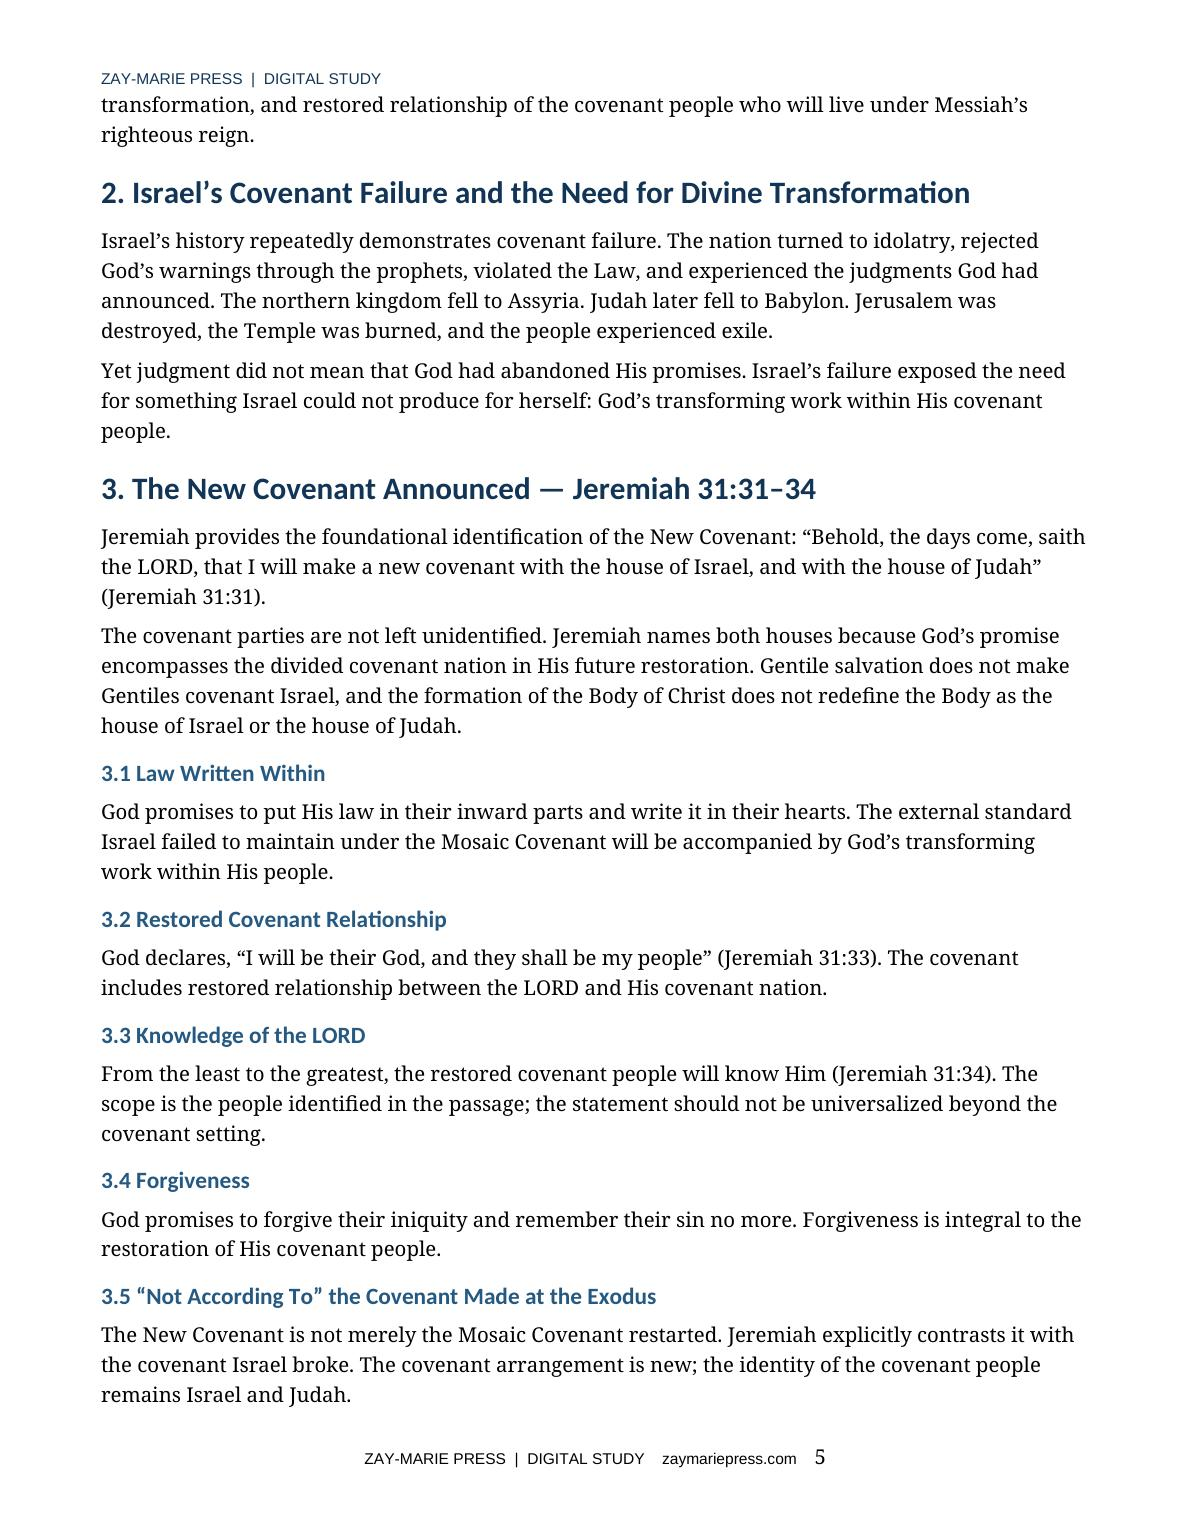
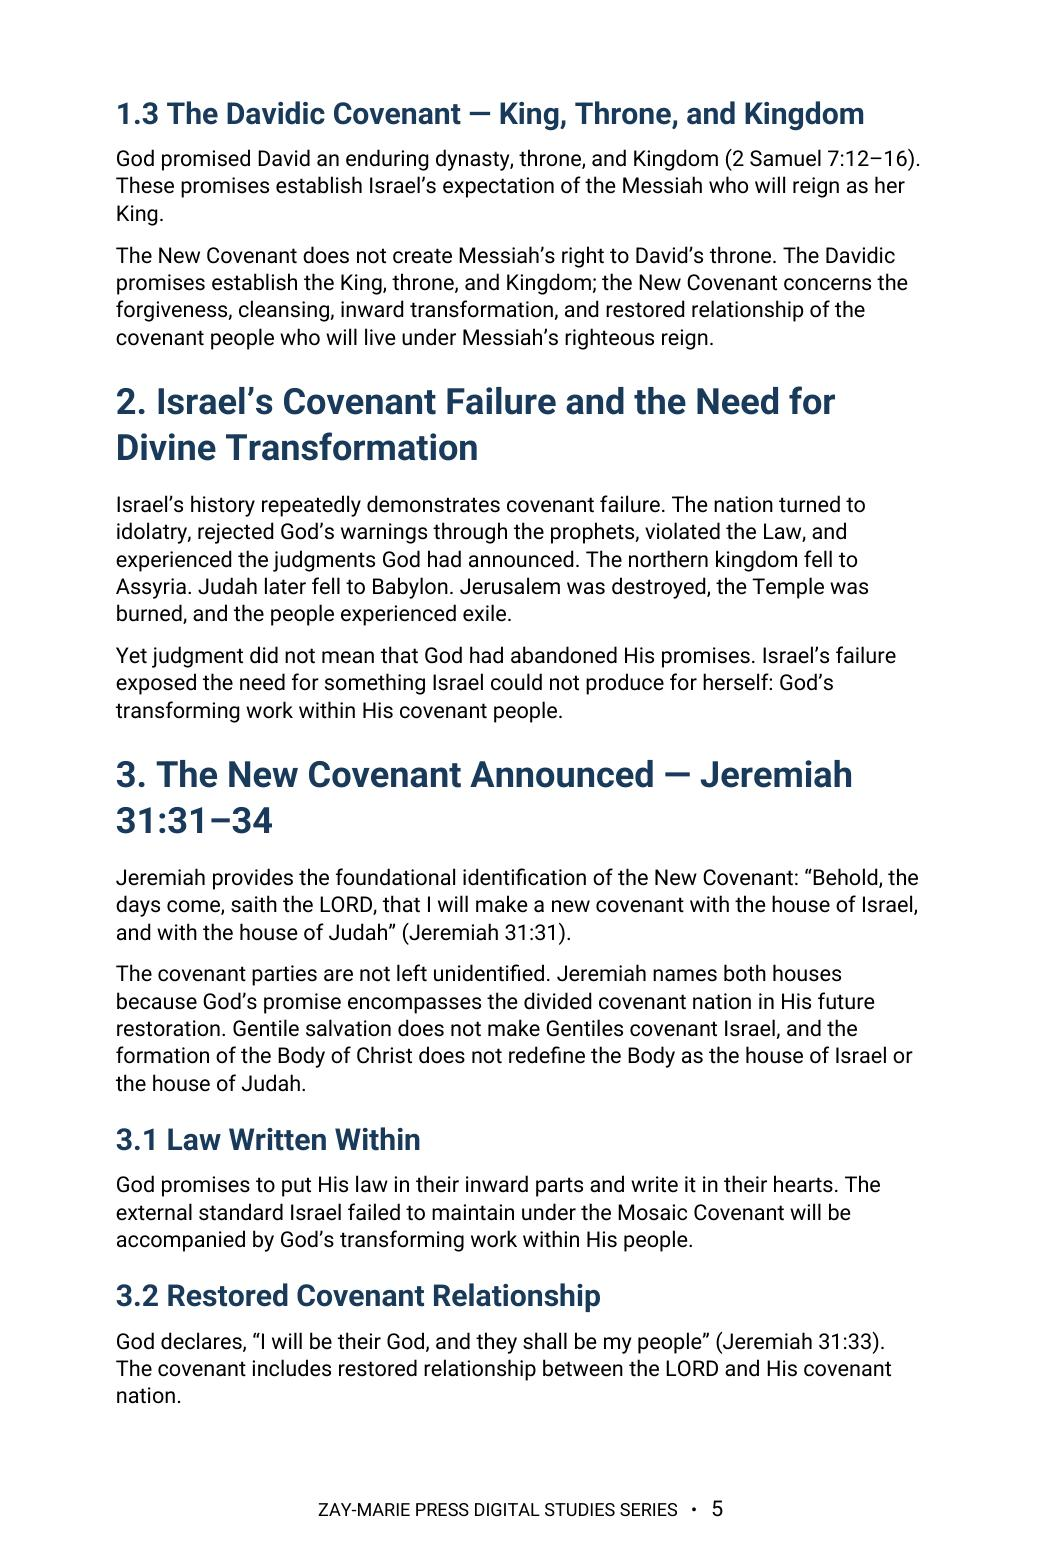
Study 12: rebuild from PDF to Master Standard v1.30; Section 9.1 wording per 2 Cor 3:6 ruling; 14 pages; preview strip re-cut; tracker v1.35
Claude-Session: https://claude.ai/code/session_01TLNFW47XCW6YAMUxScR3v4

Changed region(s): [[0.0922, 0.0312, 0.9222, 0.9351], [0.3074, 0.9351, 0.6763, 0.9662]]

diff --git a/study-12-the-new-covenant.html b/study-12-the-new-covenant.html
@@ -14,7 +14,7 @@
 <section class="detail-section soft"><div class="wrap"><div class="eyebrow">WHAT YOU’LL STUDY</div><h2>Read the Covenant in Its Prophetic Setting</h2><div class="study-points"><div class="study-point"><h3>The Covenant Story Before Jeremiah</h3><p>Set the New Covenant alongside the Abrahamic, Mosaic, and Davidic covenants without collapsing their functions.</p></div><div class="study-point"><h3>Israel’s Covenant Failure</h3><p>See why Israel’s history exposes the need for God’s transforming work within His covenant people.</p></div><div class="study-point"><h3>The Promise of Jeremiah 31</h3><p>Identify Israel and Judah as the named parties and follow the covenant’s promised provisions.</p></div><div class="study-point"><h3>Ezekiel’s Restoration Vision</h3><p>Examine cleansing, a new heart, the Spirit within, regathering, and restoration to the land.</p></div><div class="study-point"><h3>Christ’s Finished Work</h3><p>Understand the covenant’s redemptive basis without changing its covenant recipients.</p></div><div class="study-point"><h3>Israel’s Future Covenant Fulfillment</h3><p>Read Romans 11 and the Acts Overlap while preserving Israel’s future restoration and the Body’s distinct Mystery blessings.</p></div></div></div></section>
 <section class="detail-section cream"><div class="wrap"><div class="eyebrow">KEY SCRIPTURES</div><h2>Examine the Passages for Yourself</h2><div class="scripture-grid"><div class="scripture-card"><h3>Genesis 12:1–3; 17:7–8</h3><p>Establishes the national, land, and blessing promises that precede the New Covenant.</p></div><div class="scripture-card"><h3>Exodus 19–24</h3><p>Defines the Mosaic Covenant Israel broke.</p></div><div class="scripture-card"><h3>2 Samuel 7:12–16</h3><p>Connects David’s promised throne and Kingdom to Israel’s future hope.</p></div><div class="scripture-card"><h3>Jeremiah 31:31–34</h3><p>Names Israel and Judah as the New Covenant parties and declares its provisions.</p></div><div class="scripture-card"><h3>Ezekiel 36:22–28</h3><p>Promises cleansing, a new heart, the Spirit within, regathering, and restoration.</p></div><div class="scripture-card"><h3>Luke 22:20</h3><p>Relates Christ’s blood to the covenant’s redemptive basis.</p></div><div class="scripture-card"><h3>Romans 11:25–29</h3><p>Affirms Israel’s future deliverance and the certainty of God’s calling.</p></div><div class="scripture-card"><h3>Acts 28:25–28</h3><p>Marks the suspension of Israel’s Prophecy Program while Mystery continues.</p></div></div></div></section>
 <section class="detail-section"><div class="wrap"><div class="eyebrow">FROM THE STUDY</div><h2>The Covenant Arrangement Is New; Its People Are Not</h2><div class="excerpt"><blockquote>“Christ’s finished work provides the New Covenant’s redemptive basis. It does not change the covenant parties named by Jeremiah.”</blockquote><p>Receiving blessing through Christ does not automatically make a person or company a party to Israel’s covenant. The covenant belongs to Israel’s Prophecy Program; the Body’s blessings belong to the Mystery revealed through Paul.</p></div></div></section>
-<section class="detail-section soft"><div class="wrap"><div class="eyebrow">A LOOK INSIDE</div><h2>Preview the Study Before You Purchase</h2><p class="preview-instruction">Click any page to enlarge it for reading.</p><div class="preview-grid"><div class="preview-card"><a class="preview-image-link" data-preview-lightbox href="assets/study-12-page-2.jpg"><img src="assets/study-12-page-2.jpg" alt="Study 12 interior preview — page 2, what you will learn"/></a><div class="page-no">Page 2</div><h3>What You Will Learn</h3><p>See the study’s controls for reading the New Covenant in its prophetic setting.</p></div><div class="preview-card"><a class="preview-image-link" data-preview-lightbox href="assets/study-12-page-5.jpg"><img src="assets/study-12-page-5.jpg" alt="Study 12 interior preview — page 5, Jeremiah 31"/></a><div class="page-no">Page 5</div><h3>The New Covenant Announced</h3><p>Read Jeremiah 31’s named covenant parties, provisions, and controlling distinctions.</p></div><div class="preview-card"><a class="preview-image-link" data-preview-lightbox href="assets/study-12-page-8.jpg"><img src="assets/study-12-page-8.jpg" alt="Study 12 interior preview — page 8, Romans 11 and Acts Overlap"/></a><div class="page-no">Page 8</div><h3>Romans 11 and the Acts Overlap</h3><p>Follow Israel’s future covenant deliverance while preserving the distinct programs.</p></div><div class="preview-card"><a class="preview-image-link" data-preview-lightbox href="assets/study-12-page-11.jpg"><img src="assets/study-12-page-11.jpg" alt="Study 12 interior preview — page 11, key distinctions and Scripture-tracing exercise"/></a><div class="page-no">Page 11</div><h3>Key Distinctions and Scripture Tracing</h3><p>Test the study’s covenant controls directly from the passages.</p></div></div></div></section>
+<section class="detail-section soft"><div class="wrap"><div class="eyebrow">A LOOK INSIDE</div><h2>Preview the Study Before You Purchase</h2><p class="preview-instruction">Click any page to enlarge it for reading.</p><div class="preview-grid"><div class="preview-card"><a class="preview-image-link" data-preview-lightbox href="assets/study-12-page-2.jpg"><img src="assets/study-12-page-2.jpg" alt="Study 12 interior preview — page 2, table of contents"/></a><div class="page-no">Page 2</div><h3>Table of Contents</h3><p>See the full structure of the study, from the introduction through the final synthesis.</p></div><div class="preview-card"><a class="preview-image-link" data-preview-lightbox href="assets/study-12-page-3.jpg"><img src="assets/study-12-page-3.jpg" alt="Study 12 interior preview — page 3, what you will learn"/></a><div class="page-no">Page 3</div><h3>What You Will Learn</h3><p>See the study’s goals and the questions it will teach you to answer.</p></div><div class="preview-card"><a class="preview-image-link" data-preview-lightbox href="assets/study-12-page-5.jpg"><img src="assets/study-12-page-5.jpg" alt="Study 12 interior preview — page 5, the Davidic covenant, Israel’s covenant failure, and Jeremiah 31"/></a><div class="page-no">Page 5</div><h3>Israel’s Covenant History and Jeremiah 31</h3><p>Follow the covenant story from David’s throne through Israel’s failure to the opening of Jeremiah 31.</p></div></div></div></section>
 <section class="detail-section"><div class="wrap"><div class="eyebrow">WHAT’S INCLUDED</div><h2>A Focused Study Built for<br/>Understanding and Teaching</h2><div class="includes-grid"><div class="include-item"><h3>13-Page In-Depth Biblical Study</h3><p>A focused, Scripture-based examination of the New Covenant’s parties, promises, and future fulfillment.</p></div><div class="include-item"><h3>Ten Core Teaching Sections</h3><p>Move from covenant history through Jeremiah, Ezekiel, Christ’s work, Romans 11, and the Acts Overlap.</p></div><div class="include-item"><h3>Covenant-History Foundation</h3><p>Distinguish the Abrahamic, Mosaic, Davidic, and New Covenants by their revealed functions.</p></div><div class="include-item"><h3>Jeremiah 31 and Ezekiel 36 Study</h3><p>Read the New Covenant’s named parties and restoration provisions in their prophetic setting.</p></div><div class="include-item"><h3>Romans 11 and Acts Overlap Analysis</h3><p>Preserve Israel’s future covenant fulfillment while distinguishing national hardening from program suspension.</p></div><div class="include-item"><h3>Review and Discussion Questions</h3><p>Test the controlling distinctions concerning covenant parties, redemptive basis, and Kingdom inheritance.</p></div><div class="include-item"><h3>Teaching Outline</h3><p>A ready framework for explaining the covenant without transferring Israel’s promises to the Body.</p></div><div class="include-item"><h3>Guided Study and Final Synthesis</h3><p>Trace the passages directly and build the argument from Scripture with precision.</p></div></div></div></section>
 <section class="detail-section cream"><div class="wrap"><div class="final-buy"><div><div class="eyebrow">STUDY 12 · DIGITAL STUDY</div><h2>The New Covenant</h2><p>13-page digital PDF · For personal use</p></div><div class="final-offer"><div class="detail-price">$5.99</div><span class="detail-button pending" aria-disabled="true">Get the Study</span></div></div><a class="back-link" href="digital-studies.html">← Back to All Digital Studies</a></div></section><section class="study-method-course-bridge"><div class="wrap"><div class="study-method-course-panel"><div><div class="eyebrow">BUILD THE INTERPRETIVE METHOD</div><h2>Want More Than a Focused Study?</h2><p>Digital Studies examine particular biblical subjects and difficult passages. The 40-lesson Biblical Hermeneutics course teaches a complete, repeatable method for establishing meaning in context, determining proper assignment, and making responsible application.</p></div><a class="btn btn-primary" href="biblical-hermeneutics-course.html">BIBLICAL HERMENEUTICS COURSE</a></div></div></section></main>
 <div class="preview-lightbox" id="preview-lightbox" role="dialog" aria-modal="true" aria-label="Enlarged study page preview"><button class="preview-lightbox-close" type="button" aria-label="Close enlarged preview">×</button><img src="" alt=""/><div class="preview-lightbox-hint">Scroll to read the full page · Press Esc or click outside the page to close</div></div>

diff --git a/site.js b/site.js
@@ -62,7 +62,7 @@ const resourceModal=document.querySelector('#resource-modal'), resourceModalTitl
 if(resourceModal&&resourceModalTriggers.length){const closeResourceModal=()=>{resourceModal.hidden=true;document.body.classList.remove('resource-modal-open');lastResourceTrigger?.focus();};resourceModalTriggers.forEach(trigger=>trigger.addEventListener('click',()=>{lastResourceTrigger=trigger;if(resourceModalTitle)resourceModalTitle.textContent=trigger.dataset.title||'Resource';if(resourceModalDescription)resourceModalDescription.textContent=trigger.dataset.description||'';if(resourceModalLink){resourceModalLink.href=trigger.dataset.href||'#';resourceModalLink.textContent=trigger.dataset.linkText||'OPEN RESOURCE';}resourceModal.hidden=false;document.body.classList.add('resource-modal-open');resourceModalClose?.focus();}));resourceModalClose?.addEventListener('click',closeResourceModal);resourceModal.addEventListener('click',e=>{if(e.target===resourceModal)closeResourceModal();});document.addEventListener('keydown',e=>{if(e.key==='Escape'&&!resourceModal.hidden)closeResourceModal();});}
 
 /* Display the verified final-PDF page count at the primary purchase decision point. */
-const digitalStudyPageCounts={1:14,2:14,3:18,4:18,5:16,6:16,7:16,8:16,9:16,10:23,11:15,12:13,13:15,14:13,15:13,16:14,17:14,18:13,19:13,20:13,21:14,22:15,23:15,24:13,25:13,26:17,27:15,28:14,29:13,30:17,31:17,32:14,33:15,34:16,35:15,36:15,37:15,38:16,39:16,40:15,41:15,42:15,43:17,44:15,45:15,46:15,47:16,48:15,49:14,50:14,51:15,52:15,53:15,54:15,55:16,56:16,61:16,62:16,63:16,64:16,65:16,66:16,67:16,68:16,69:16,70:16,71:16};
+const digitalStudyPageCounts={1:14,2:14,3:18,4:18,5:16,6:16,7:16,8:16,9:16,10:23,11:15,12:14,13:15,14:13,15:13,16:14,17:14,18:13,19:13,20:13,21:14,22:15,23:15,24:13,25:13,26:17,27:15,28:14,29:13,30:17,31:17,32:14,33:15,34:16,35:15,36:15,37:15,38:16,39:16,40:15,41:15,42:15,43:17,44:15,45:15,46:15,47:16,48:15,49:14,50:14,51:15,52:15,53:15,54:15,55:16,56:16,61:16,62:16,63:16,64:16,65:16,66:16,67:16,68:16,69:16,70:16,71:16};
 const digitalStudyMatch=window.location.pathname.match(/\/study-(\d+)-/i);
 const digitalStudyFormat=document.querySelector('.detail-hero .detail-format');
 if(digitalStudyMatch&&digitalStudyFormat){const studyNumber=Number(digitalStudyMatch[1]),pageCount=digitalStudyPageCounts[studyNumber];if(pageCount)digitalStudyFormat.textContent=`Digital PDF · ${pageCount} Pages`;}

diff --git a/controlling-documents/Digital_Studies_PAM_Audit_v1.35.md b/controlling-documents/Digital_Studies_PAM_Audit_v1.35.md
@@ -61,7 +61,7 @@ Priority list (publisher's list):
 |---|---|---|---|
 | 9 The Remnant | Clear | Remnant = Israel only; Romans 11:5; Romans 11:25 ruling | Consistent: preservation without identity transfer. |
 | 11 The Beginning of the Body of Christ | Clear | Acts 1–8 Kingdom; Acts 2 not the Body; Acts 9–28 Overlap | Pentecost kept in Joel 2 setting. |
-| 12 The New Covenant | Clear | New covenant parties Israel and Judah; Luke 22:20; Section 4 on 2 Cor 3:6 | Body benefits from Christ's work without being the covenant party. |
+| 12 The New Covenant | Fixed (publisher approved) | New covenant parties Israel and Judah; Luke 22:20; Section 4 on 2 Cor 3:6 | Body benefits from Christ's work without being the covenant party. |
 | 13 The Olive Tree and the Body of Christ | Clear | Romans 11:25 ruling; Remnant | Romans 11 placed inside the Overlap. |
 | 14 Acts 9 and the Beginning of Mystery | Clear | Acts 1–8; Acts 9–28; Acts 10–11 ruling; Acts 15 ruling | Acts 10–12 presented as Peter's continuing ministry. PDF: confirm Acts 10–11 stays a Prophecy Program event. |
 | 18 Peter and Paul: Distinct Apostolic Commissions | Clear | Acts 9–28 Overlap; Acts 15; Galatians 2:7 | |
@@ -261,3 +261,4 @@ Study 15 PDF not yet supplied. Typography: none of Studies 2, 3, 6, 8 is in EB G
 - v1.32 (2026-09-30): Study 8 (The Day of Christ) read in full against the PAM and Framework: clear (Judgment Seat applied to the Body; Day of Christ in the Mystery Program and Day of the Lord in Prophecy; 2 Thess 2:2 translation question left open; 1 Cor 15:51 treated as a Mystery; Col 1:27 not tied to John 14). Approved by the publisher ("i approve") and pushed: Roboto rebuild to Master Standard v1.28/v1.29/v1.30, 16 pages (cover plus 15 interior; was 15), five boxed callouts (Study Goal, Interpretive Control in the Introduction, Judgment Seat Control, Interpretive Control on the two Days, Final Control; the others became body paragraphs with a bold run-in lead), TOC first at body spacing, Heading 1 at 12 pt, review questions 1-20, copyright in the end imprint. Defects fixed in the rebuild: the source TOC had no page numbers (all 26 entries now have dot leaders and numbers taken from the PDF; the builder now adds them automatically) and ended with a production placeholder line (removed). Publisher directives applied from Study 8 forward (not retrofitted to Studies 1-7 and 9): the interior footer reads "ZAY-MARIE PRESS DIGITAL STUDIES SERIES" plus the page number, per Master Standard section 11, and the interior header text is removed (no running header). Margins 0.83 in because the source's 0.35 in margins gave 15 pages at 0.67 in and the Standard requires 15 interior pages. Website: preview strip reduced from four cards to three (Page 2 Table of Contents, Page 3 What You Will Learn, Page 5 Completion and Sincerity; images at 1041 x 1565); old page 8, 11 and 13 images removed; page count 15 to 16 in site.js, the What's Included card and the hero line. Checked locally at 1280, 390, 360 and 320 px; not checked live (Cloudflare Access sign-in). The publisher swaps the purchasable PDF himself. Next file needed: Study 11 DOCX.
 - v1.33 (2026-09-30): Study 11 (The Beginning of the Body of Christ) read in full against the PAM and Framework from the publisher's PDF (v12, 13 pages; he had no DOCX): clear (Pentecost kept in Israel's Prophecy Program, consistent with the Framework's "Acts 2 is not the beginning of the Body"; Acts 9-28 overlap and the Acts 28 suspension; no use of Acts 10-11 or Acts 15 beyond the rulings; the study itself states that Acts 9 never contains the sentence "the Body began here"). Approved by the publisher ("i approve") and pushed. Because no DOCX existed, an editable DOCX was reconstructed from the PDF text (structure inferred from font size and position; a word-by-word comparison of the new PDF against the source PDF found no wording changes apart from the moved table of contents, a period after four run-in labels, and the imprint) and then built to Master Standard v1.28/v1.29/v1.30: 15 pages (cover plus 14 interior; was 13), the publisher accepted 14 interior pages for this study, standard 0.67 in margins, Roboto only, five boxed callouts (Study Goal, Interpretive Control, Acts 9 Control, Acts Overlap Control, Final Control; Doctrinal Principle, Pentecost Control, Audience Control and Revelation Control became body paragraphs with a bold run-in lead), TOC first at body spacing with page numbers, Heading 1 at 12 pt, footer "ZAY-MARIE PRESS DIGITAL STUDIES SERIES" plus page number, no header text, review questions 1-12, standard end imprint (the source's own personal-use license wording was dropped at the publisher's OK). The study had no Study Outline; one was drafted from the Teaching Outline as process-only wording (section 17) and approved by the publisher (six bullets under the Study Goal; not a TOC entry). Builder changes: imprint is now appended after a closing callout table, not before it; sgen tolerates a missing Study Outline. Website: preview strip kept at three cards but re-cut (Page 2 Table of Contents, Page 3 What You Will Learn with the outline, Page 4 The Question Beneath the Question; the old third card's page opens with a conclusion heading); old page 5 image removed; page count 13 to 15 in site.js, the What's Included card and the hero line. Checked locally at 1280, 390, 360 and 320 px; not checked live (Cloudflare Access sign-in). The publisher swaps the purchasable PDF himself. Next file needed: Study 12.
 - v1.34 (2026-09-30): Study 10 (Daniel's Seventieth Week) read in full against the PAM and Framework from the publisher's DOCX (v17): clear (seventy weeks kept with Israel and Jerusalem; Acts 1–8 Prophecy, Acts 9 Mystery begins, Acts 9–28 overlap, Acts 28 suspension not cancellation; no Matt 24/Luke 17 rapture claims; Rom 11:25 only in a reading list). Rebuilt in Roboto to Master Standard v1.30 (12/8 headings, Study 8+ footer, no header): five boxed callouts (Study Goal, Audience Control, Chronology Control, Overlap Control, Final Truth; Redemption Control became a run-in paragraph), Study Outline drafted from the Teaching Outline, Investigation 6 heading supplied, duplicate Final Synthesis merged into one heading, broken source paragraphs rejoined, misplaced Scripture-Tracing paragraph moved, Roman-numeral Teaching Outline turned to bullets. Length: the study is about 8,000 words; condensing to 17 pages would have cut important content, so the publisher accepted 23 pages as an exception to §9 (cover plus 22 interior). Only restated material was removed (Judgment Is Not Redemption, Suffering Does Not Redeem Israel, Israel's Future Rests Upon God, Two Destinies Remain Distinct, four Conclusion subsections, the Conclusion recap bullets and closing paragraphs). Website: preview strip re-cut to TOC (p2), What You Will Learn (p3), Section 1 (p4); old extra preview images removed; page count stays 23. Approved by the publisher ("i approve") and pushed.
+- v1.35 (2026-09-30): Study 12 (The New Covenant) read in full against the PAM and Framework from the publisher's PDF (v21, 13 pages; no DOCX): clear except one framing point. Section 9.1 spoke of Paul's "ministry concerning the New Covenant during the Acts period"; per the Section 4 ruling on 2 Cor 3:6 (the new covenant stays with Israel/Judah; Paul's ministry stays with the Mystery) it now reads: "Paul's ministry in 2 Corinthians 3:6 belongs to the Mystery administration committed to him; it does not make the Body a covenant party. The New Covenant itself stays with Israel and Judah. His ability to speak of that covenant in his ministry does not require that his Mystery audience become Israel or Judah." (publisher approved the wording). Approved by the publisher ("i approve") at 14 pages and pushed. Rebuilt from the PDF in Roboto to Master Standard v1.30: five boxed callouts kept (Study Goal, Interpretive Control, Covenant Identity, Acts Overlap Clarification, Doctrinal Principle; Restoration Control and Redemptive Basis became run-in paragraphs), Study Outline drafted from the Teaching Outline, covenant-promises diagram and both tables kept, imprint standard text (personal-use wording dropped); 14 pages (cover plus 13 interior; source text is about 3,900 words). Website: preview strip re-cut to TOC (p2), What You Will Learn (p3), p5; old extra preview images removed; site.js page count 13 to 14.
